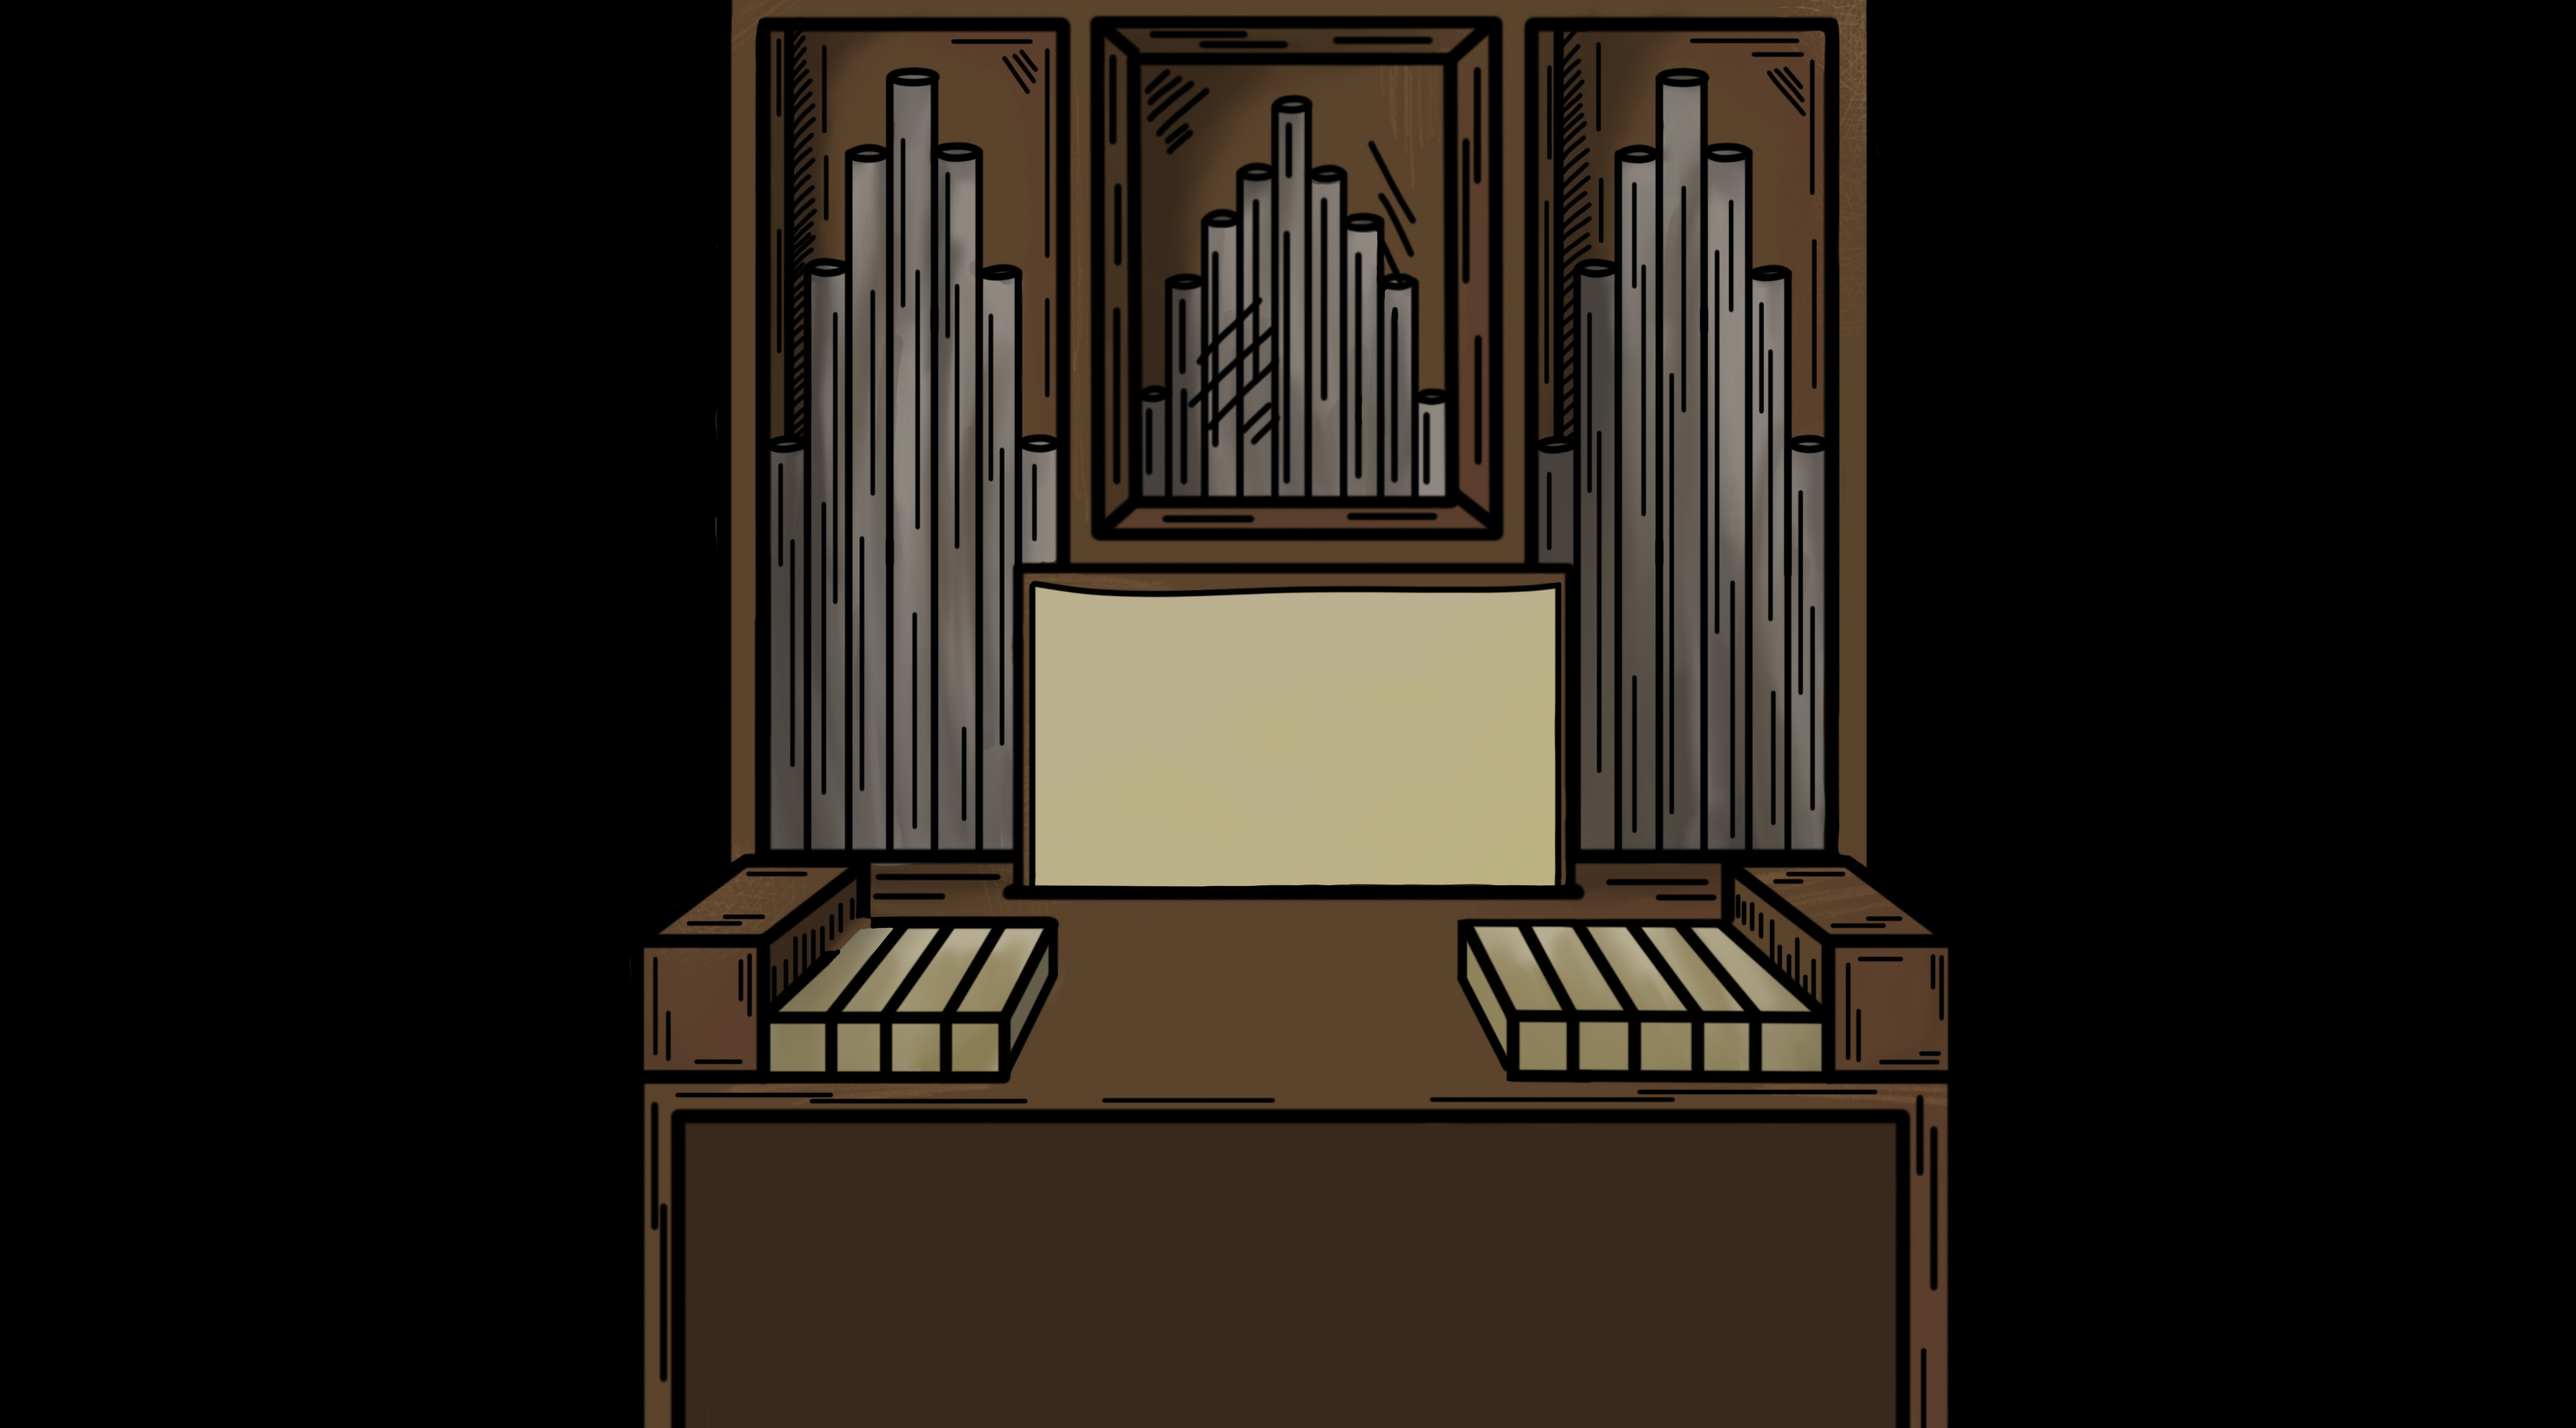
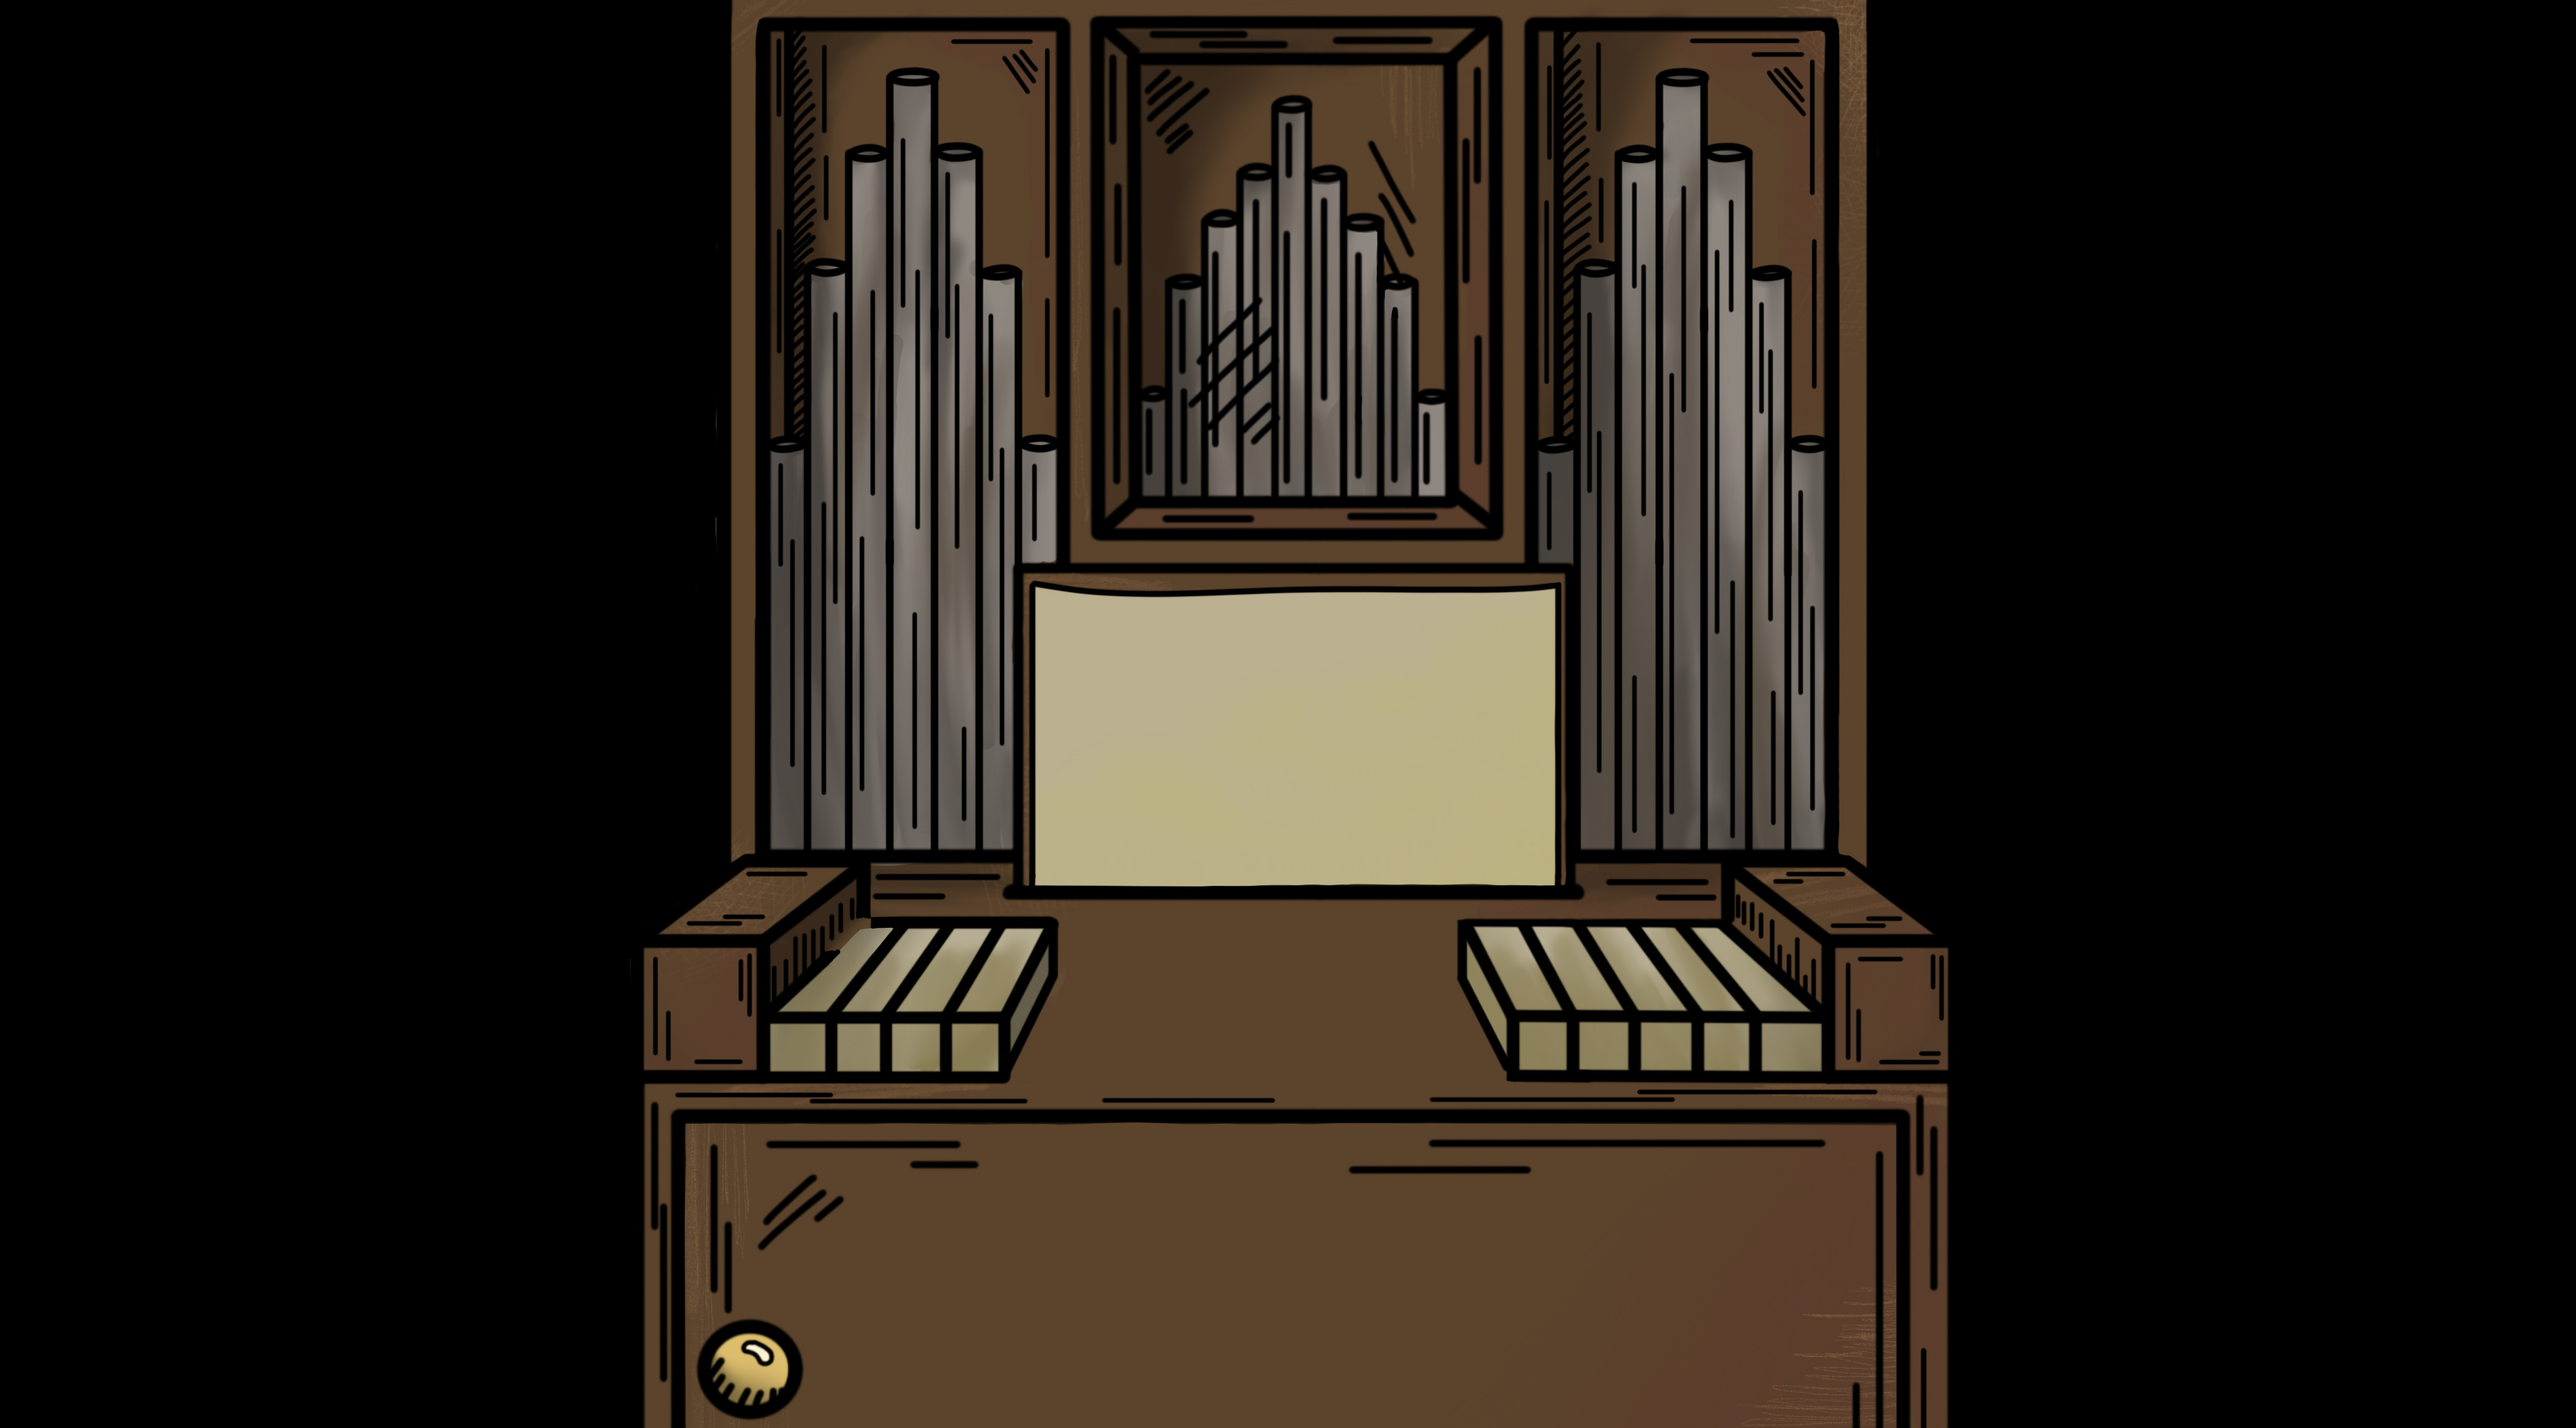
cambio de fondo para recoger recompensas

Changed region(s): [[0.2491, 0.7799, 0.7472, 1.0]]

diff --git a/TheatrumMundiProyect/TheatrumMundi/MusicPuzzleScene.cpp b/TheatrumMundiProyect/TheatrumMundi/MusicPuzzleScene.cpp
@@ -80,7 +80,7 @@ void MusicPuzzleScene::init(SceneRoomTemplate* sr)
         initializeMusicalSounds();
 
         //background
-        entityFactory->CreateImageEntity(entityManager, "fondoOrgano", Vector2D(0, 0), Vector2D(0, 0), 1349, 748, 0, ecs::grp::DEFAULT);
+        background = entityFactory->CreateImageEntity(entityManager, "fondoOrgano", Vector2D(0, 0), Vector2D(0, 0), 1349, 748, 0, ecs::grp::DEFAULT);
 
         //mirror
         auto mirror = entityFactory->CreateImageEntity(entityManager, "espejo", Vector2D(175, 0), Vector2D(0, 0), 345/1.5, 707/1.5, 0, ecs::grp::DEFAULT);
@@ -218,7 +218,19 @@ void MusicPuzzleScene::refresh()
                 _isAnimating = false;
 
                 //reactive all scene buttons
-                if (_animationType) Check();
+                if (_animationType)
+                {
+                    if (!solved && Check())
+                    {
+                        //puzzle win
+                        Win();
+                        
+                        Image* img = entityManager->getComponent<Image>(background);
+                        img->setTexture(&sdlutils().images().at("fondoCajon"));
+
+                        //recompensas
+                    }
+                }
                 else
                 {
                     cleanCombination();
@@ -235,12 +247,7 @@ void MusicPuzzleScene::refresh()
 
 bool MusicPuzzleScene::Check()
 {
-    if (_phase == _correctCombinations.size() - 1)
-    {
-        //puzzle win
-        Win();
-        return true;
-    }
+    if (_phase == _correctCombinations.size() - 1) return true;
     else
     {
         changePhase();

diff --git a/TheatrumMundiProyect/TheatrumMundi/MusicPuzzleScene.h b/TheatrumMundiProyect/TheatrumMundi/MusicPuzzleScene.h
@@ -42,6 +42,7 @@ private:
 
 	entity_t musicalScore; //visual entity that changes with each phase
 	entity_t mirrorScore; //visual entity that changes with each phase
+	entity_t background; //background
 
 	std::vector<entity_t> displayedNotes; //entities's vector of displayed musical notes
 
